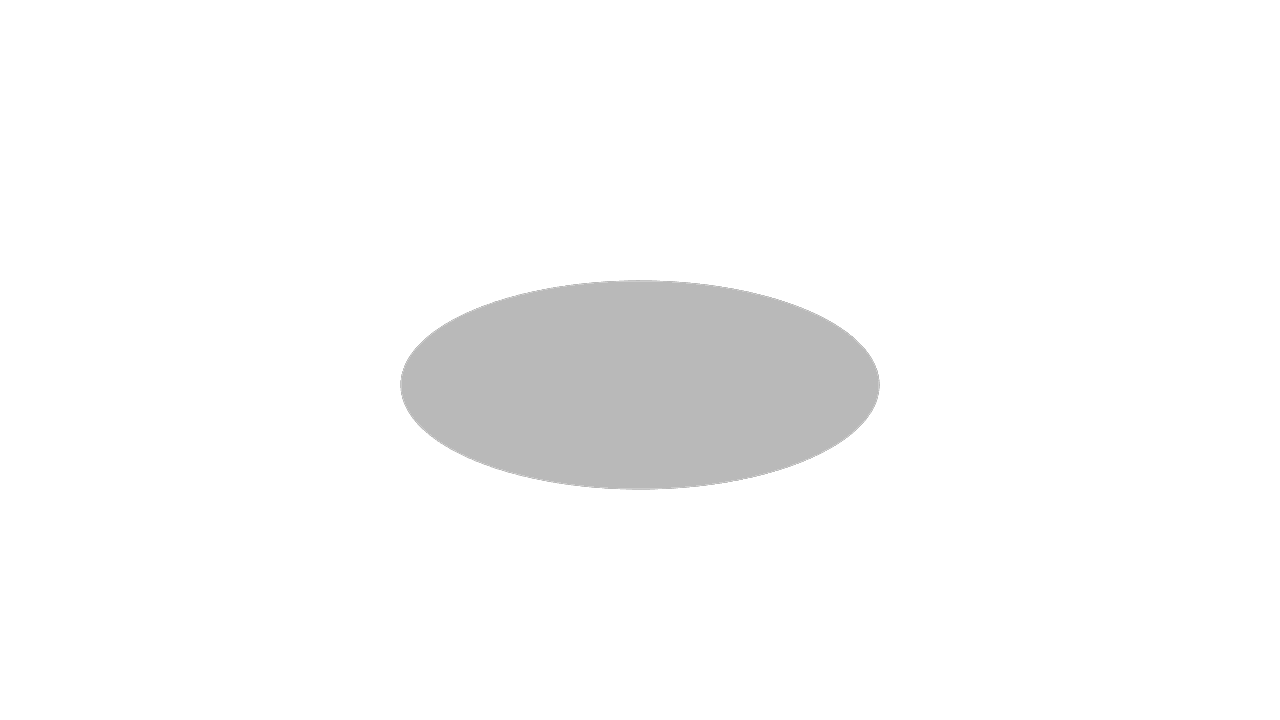
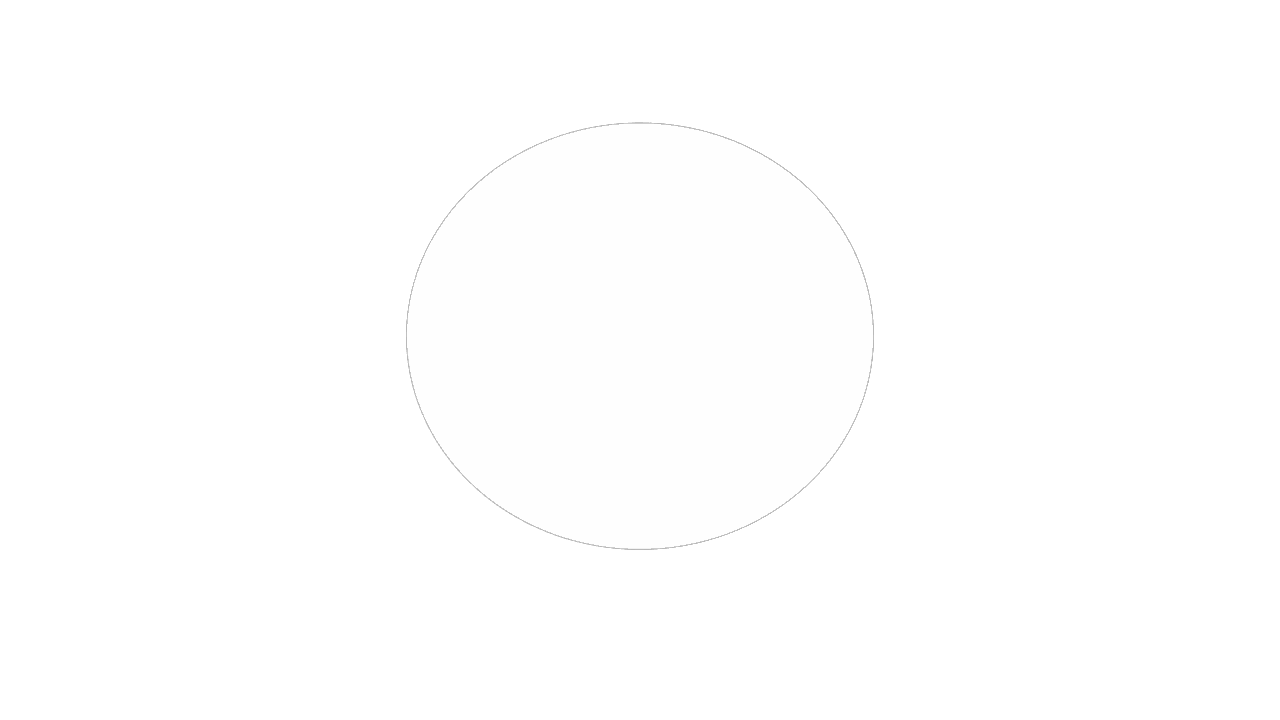
Book edits as suggested by Shriram Krishnamurthi (#22)
Dr. Krishnamurthi is a professor of programming languages and was kind enough to read the first few chapters, and had some feedback about parts that were confusing.

* I should explain the end vs. endAbsolute part better
* Images of 2D sketches should be facing the camera so it's clear what actual shape they have (e.g. the circle looks like an oval)
* Explain why 180deg in tangentialArc sometimes means up and sometimes means down

Changed region(s): [[0.3125, 0.3667, 0.6875, 0.7028]]

diff --git a/kcl-book/src/sketch2d_curves.md b/kcl-book/src/sketch2d_curves.md
@@ -26,7 +26,20 @@ It should look like this:
 
 Let's analyze this! It looks very similar to the triangle we sketched previously, but we're using `tangentialArc`. You can see it takes a relative `end`, i.e. an X distance and Y distance to move from the current point. It draws a nice smooth arc there.
 
-We wrote this arc using `end`, i.e. an X and Y distance. But we could have defined this arc differently, using a `radius` and `angle` instead. You can replace the `tangentialArc(end = [0, height])` with `tangentialArc(angle = 180, radius = height)` instead, and it should draw the same thing. 
+We wrote this arc using `end`, i.e. an X and Y distance. But we could have defined this arc differently, using a `radius` and `angle` instead (or a `diameter` and `angle`). You can replace the `tangentialArc(end = [0, height])` with `tangentialArc(angle = 180, radius = height)` instead, and it should draw the same thing. 
+
+```kcl
+height = 4
+width = 8
+startSketchOn(XZ)
+  |> startProfile(at = [0, 0])
+  |> xLine(length = width)
+  |> tangentialArc(diameter = height, angle = 180deg)
+  |> xLine(length = -width)
+  |> tangentialArc(endAbsolute = profileStart())
+```
+
+Here, the angle `180deg` is measuring a counterclockwise angle. To make the arc go the other direction (clockwise), you'd use `-180deg`.
 
 The second `tangentialArc` call takes an absolute point. We tell it to draw an arc from the current point to the start of the profile. This should remind you of how straight lines can use either `end` (relative) or `endAbsolute`.
 
@@ -53,14 +66,14 @@ It should look like this:
 
 ![A spiral made from many tangential arcs](images/static/spiral.png)
 
-This works because each tangentialArc is drawing half a circle, away from the previous arc, and the circle is getting slightly larger each time.
+This works because each tangentialArc is drawing half a circle, away from the previous arc, and the circle is getting slightly larger each time. The `180` is a counterclockwise angle, so each time we draw a new arc, it bends around the circle counterclockwise.
 
 ## Circles
 
 And lastly, let's look at the humble circle.
 
 ```kcl=basic_circle
-startSketchOn(XY)
+startSketchOn(XZ)
   |> circle(center = [0, 0], radius = 10)
 ```
 

diff --git a/kcl-book/src/sketch2d.md b/kcl-book/src/sketch2d.md
@@ -64,7 +64,11 @@ Our third line heads back to the start of the profile, i.e. `[0, 0]`. We do this
 
 Because this is the same point that our profile starts at, this line has looped our profile back to its start.
 
-If we stopped our program here, you could see all three lines:
+We could have also used a relative line here, and looped back to the start with `line(end = [-3, -4])`. That would achieve the same thing. But this requires manual calculation. You, the programmer, have to look at all the previous lines and figure out how where the last line starts, and then "undo" all that distance by putting a line with the negative X and Y distances (so that the line goes back to the origin). In our example, this was easy, but in real-world designs this might be very tough! And even when it's easy, using an absolute point here communicates our intent better. We're just want to draw a line that returns to the start point. We don't really care about the distance here.
+
+It doesn't really matter which one you use, although note that Zoo Design Studio will usually prefer relative lines for almost everything. Closing a sketch is the one exception where Zoo Design Studio will use an absolute line.
+
+Now, if we stopped our program here, you could see all three lines:
 
 ![Result of running program 1](images/static/triangle_open.png)
 

diff --git a/kcl-book/src/sketch3d.md b/kcl-book/src/sketch3d.md
@@ -151,7 +151,7 @@ You can make a sphere by revolving a semicircle its full 360 degrees. First, let
 
 ```kcl=semicircle
 radius = 10
-startSketchOn(XY)
+startSketchOn(XZ)
   |> startProfile(at = [0, 0])
   |> yLine(length = radius * 2)
   |> arc(angleStart = 90, angleEnd = 270, radius = radius)
@@ -159,19 +159,21 @@ startSketchOn(XY)
 
 <!-- KCL: name=semicircle,skip3d=true,alt=Sketching a semicircle-->
 
-Then we can `close()` it and add a call to `revolve(axis = Y, angle = 360)` to revolve it into a sphere:
+Then we can `close()` it and add a call to `revolve(axis = Y)` to revolve it 360 degrees into a sphere:
 
 ```kcl=sphere
 radius = 10
-startSketchOn(XY)
+startSketchOn(XZ)
   |> startProfile(at = [0, 0])
   |> yLine(length = radius * 2)
   |> arc(angleStart = 90, angleEnd = 270, radius = radius)
   |> close()
-  |> revolve(axis = Y, angle = 360)
+  |> revolve(axis = Y)
 ```
 
 <!-- KCL: name=sphere,skip3d=true,alt=Revolving a semicircle makes a sphere -->
+
+Note that here, we omitted the `angle` argument from the `revolve` call because it defaults to 360 degrees.
 
 ## Lofts
 
